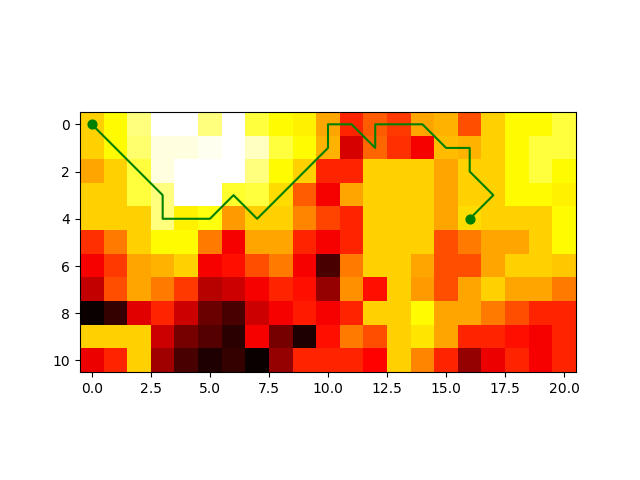
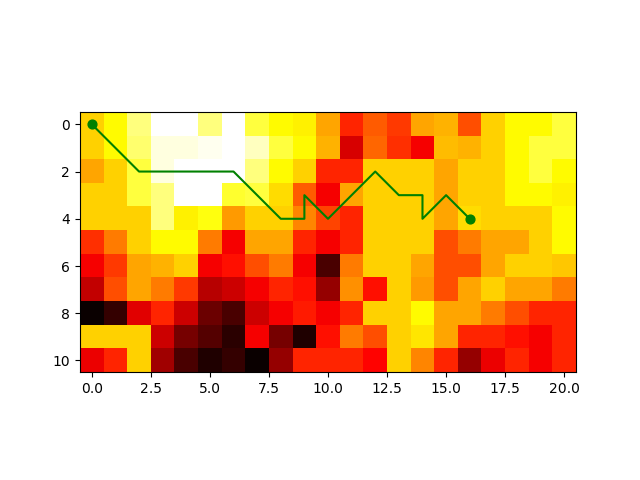
Advantage of aco

diff --git a/report/report.tex b/report/report.tex
@@ -201,7 +201,7 @@ number of ants & $\alpha$ & $\beta$ & path cost & runtime(s) \\
 \hline
 8 & 0.5 & 1.2 & 41.25 & 56.3 \\ 
 \hline
-16 & 0.5 & 1.2 & 37.25 &  97.1 \\ 
+16 & 0.5 & 1.2 & 37.25 & 97.1 \\ 
 \hline
 \end{tabular}
 \end{center}
@@ -269,9 +269,9 @@ Paths generated using GA
 
 Results for two drones. Similar to the results for one drone, tuning the parameters of GA still results in worse cost compared to ACO. 
 
-Pros/cons of each algorithm:  
+Based on the results between ACO and GA, it is clear that ACO has the better runtime performance. This shows that one of the advantages of ACO is that it uses parallelism which greatly improves the runtime of the algorithm. Speed is a big factor in drone delivery and so, a low runtime by ACO is preferred. In addition, by the graphs of the experiments, the paths produced by ACO seemed to be more optimal than the paths produced by GA. Unlike GA, ACO retains memory of the entire colony instead of just previous generation. This allows ACO to choose a better overall path. The disadvantage of ACO is that it uses a lot of parameters, and so the selection of values are mostly experimental. The alpha, beta, ant colony size and evaporation parameters were all determined through many rounds of trial and error until a decent path cost and runtime were observed. Furthermore, the number of iterations that was used in the experiments may not have achieved the best path. Increasing the number of iterations may take too long for a best solution to converge.
 
-Which algorithm best suits this problem:
+%TODO David talk about GA advantages/disadvantages
 
 \section{Conclusions \& Recommendations}
 % TODO: Zuqi

diff --git a/aco_ga_waterloo.py b/aco_ga_waterloo.py
@@ -27,8 +27,8 @@ def remove_cycle(path):
   return new_path
 
 def main():
-  goals = [226, 228, 230];
-  routes = [(1, goals[0]), (1, goals[1]), (1, goals[2])]
+  goals = [101, 150]
+  routes = [(1, goals[0]), (1, goals[1])]
   raw_graph = Graph(mapfile__name='./graph/waterloo.map')
   # path = [1, 23, 45, 66, 88, 89, 67, 87, 66, 45, 24, 23, 45, 67, 68, 67, 89, 111, 131, 111, 133, 154, 155, 156, 135, 136, 156, 177, 156, 135, 157, 178, 179, 178, 179, 180, 159, 160, 182, 181, 161, 183, 184, 206, 228, 207, 228, 207, 206, 228, 208, 230]
   # raw_graph.plotMovementsMultiPaths([path], [(1, 230)], './result/before_ga.png')
